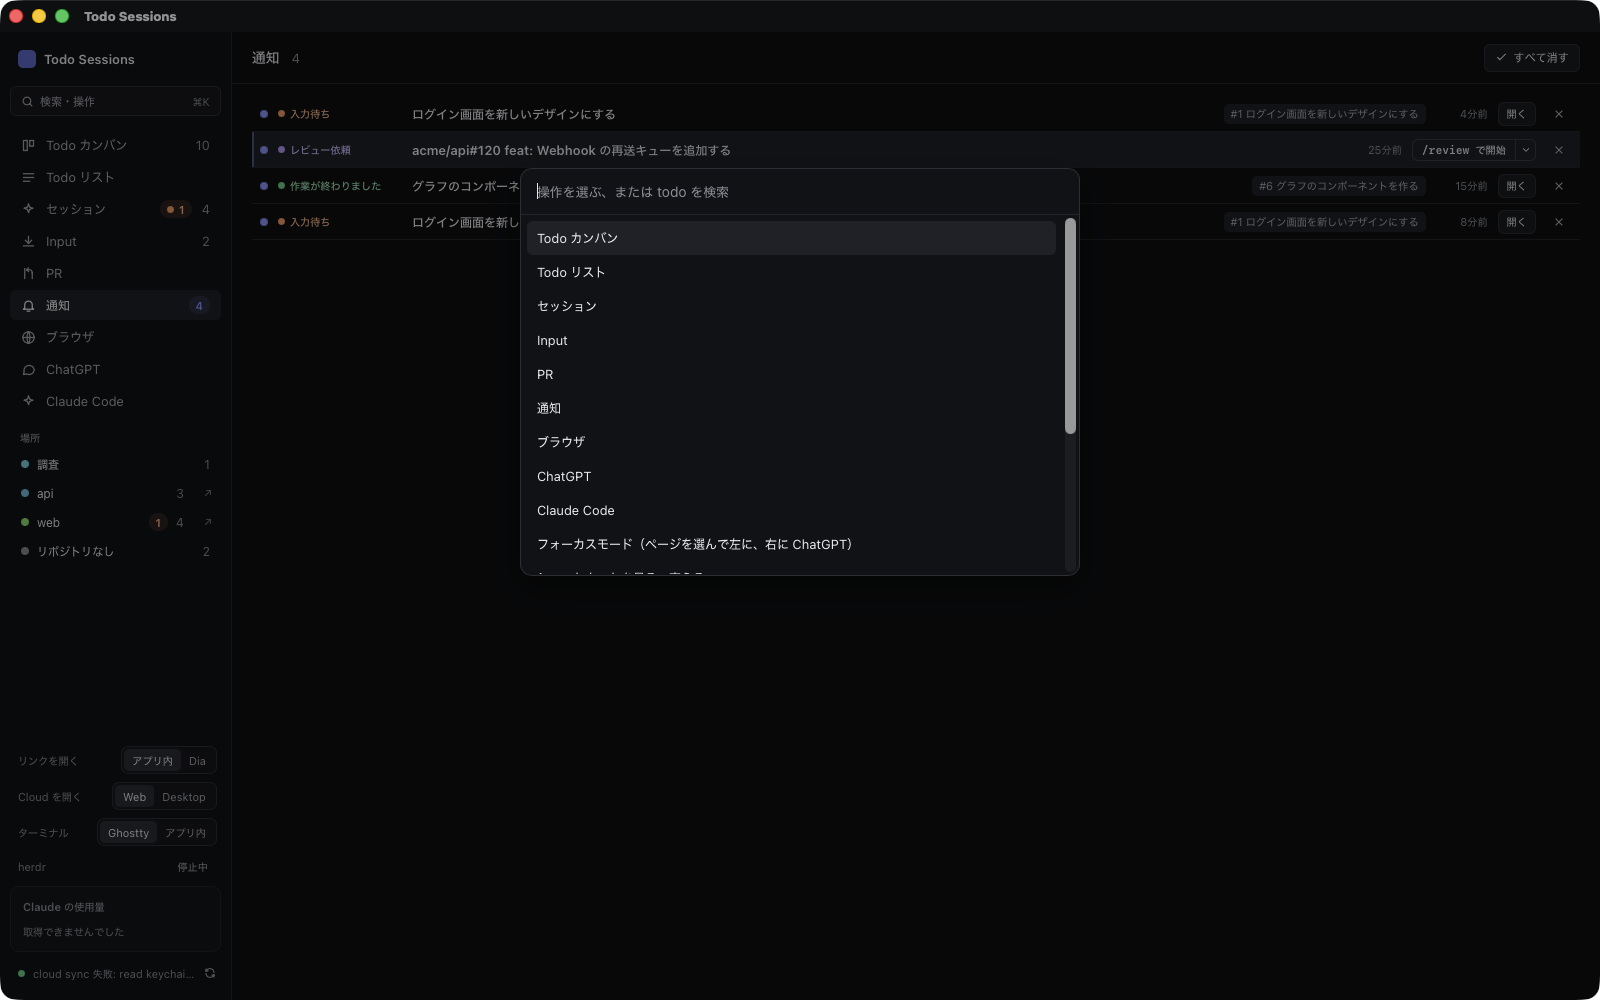
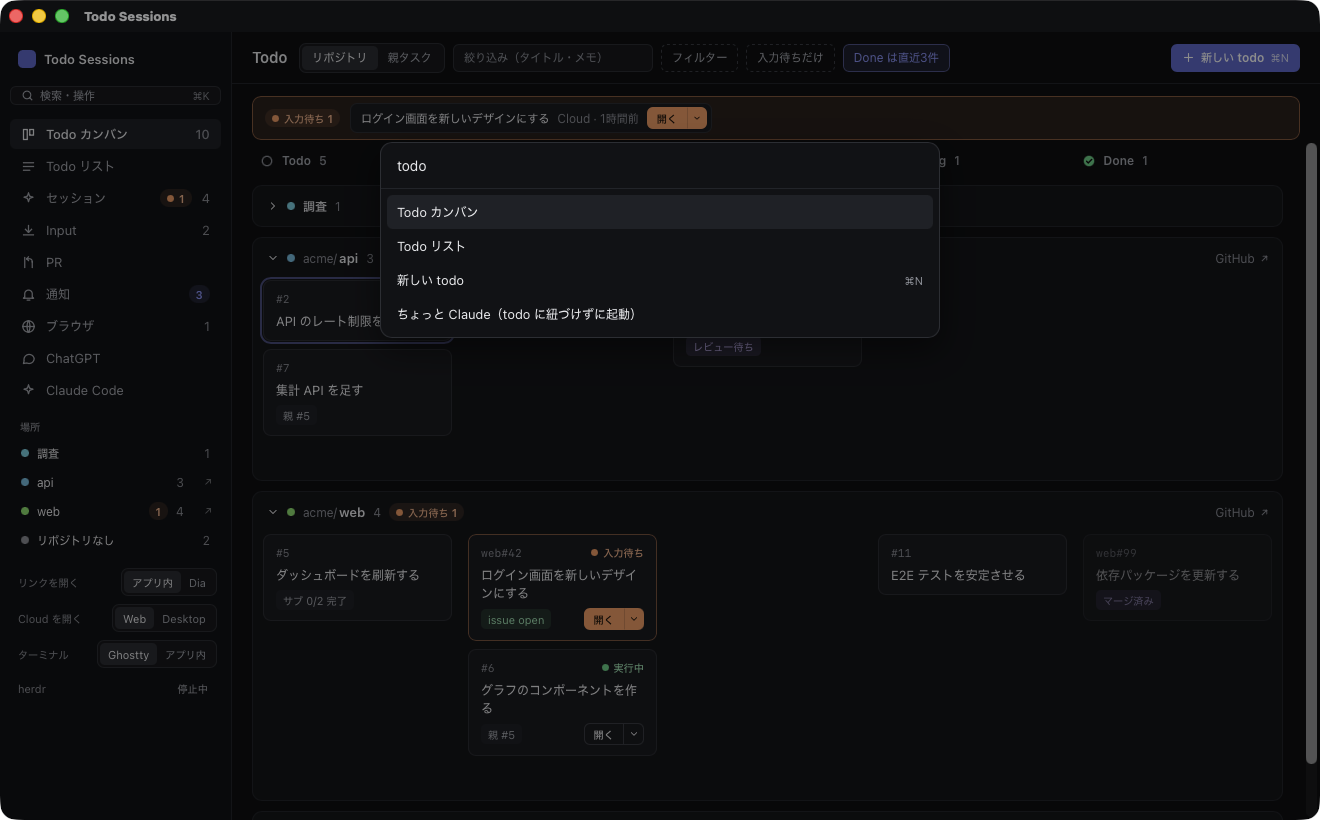
Rewrite the feature tour around how the app works
The page now opens with what the app is for and a four-step flow (with
a Mermaid diagram), explains the terms a newcomer meets, and walks the
screens with numbered callouts on the kanban, the todo panel and the
focus mode, then a key table. The screenshots are retaken from the demo
data with the sidebar's demo-only sync error hidden.

Claude-Session: https://claude.ai/code/session_01Ehh3ZJgcG5EjaXPjgQhzvj

diff --git a/docs/features.md b/docs/features.md
@@ -1,103 +1,163 @@
 # Todo Sessions の機能紹介
 
-todo や GitHub issue を Claude Code のセッション（CLI・Desktop の Code タブ・クラウド）に紐づけて、1つの画面で進み具合を追うための macOS アプリです。画像と動画はすべて架空のデモデータで撮っています。
+Todo Sessions は、todo と Claude Code のセッションをひとつの画面で管理する macOS アプリです。Claude Code を何本も並行して動かしていて、どれが入力待ちなのかをすぐ知りたい人に向けて作っています。
 
-## 紹介動画
+このページでは、どんなことができるかを画面の順に紹介します。細かい動作と設定は [README](../README.md) にまとめています。画像と動画はすべて架空のデモデータで撮っています。
 
 [![紹介動画](images/promo-poster.png)](promo.mp4)
 
-[promo.mp4](promo.mp4)（約1分・音声なし）
+紹介動画：[promo.mp4](promo.mp4)（約1分・音声なし）
 
-## Todo
+## できること
 
-### カンバン
+- todo ごとに、紐づいた Claude Code のセッションの状態（入力待ち・実行中・待機中）が見えます
+- todo から、そのままセッションを始められます。始めたセッションは todo に自動で紐づきます
+- GitHub の PR や issue が進むと、todo のステータスも自動で進みます
+- 入力待ちや作業の完了は通知で知らせます
+- 読みたい記事は「フォーカスモード」で、ChatGPT や Claude と並べて読めます
+- 操作はほとんどキーボードだけでできます
+
+## しくみ
+
+```mermaid
+flowchart LR
+  A["1. todo を作る<br>手で / GitHub issue から"] --> B["2. todo からセッションを始める<br>プロンプトに [todo:N] が付く"]
+  B --> C["3. アプリがセッションを追う<br>状態の表示・通知"]
+  C --> D["4. PR が進むと<br>ステータスも自動で進む"]
+```
+
+1. **todo を作ります。** ⌘N か「新しい todo」で作ります。⌘K の「issue を取り込む」を使うと、自分に割り当てられた GitHub issue が todo になります。
+2. **todo からセッションを始めます。** todo のパネルでプロンプトを書き、起動先（Cloud・Desktop・ターミナル）を選んで始めます。最初のプロンプトには `[todo:N]` が自動で付き、これを目印にセッションが todo に紐づきます。
+3. **アプリがセッションを追います。** Claude Code の hook と、クラウドのセッションの同期が、セッションの状態を記録します。入力待ちになると、カードに出て通知も届きます。
+4. **PR が進むと、ステータスも進みます。** PR にレビュー依頼が入ると Review、マージされると Done になります。
+
+## 用語
+
+| 用語 | 意味 |
+| --- | --- |
+| todo | やること1件。GitHub の issue / PR、作業フォルダ、メモ、リンクを持てます |
+| セッション | Claude Code の会話1本。CLI・Desktop の Code タブ・クラウドのどれでも扱えます |
+| 紐づけ | セッションと todo を結びつけること。最初のプロンプトの `[todo:N]` で自動で行います |
+| Cloud / Local | claude.ai のクラウドで動くセッション / 自分の Mac で動くセッション |
+| herdr | ターミナルで Claude Code を並べて動かすツール。Local のセッションの起動先のひとつです |
+| キュー | 起動待ちの todo の列。上から順に自動で起動します |
+| 入力待ち | セッションが止まって、あなたの返事を待っている状態 |
+| Input | 読みたい記事や本の章を集めた todo（タグ input） |
+| フォーカスモード | 左に読むページ、右に ChatGPT などを並べる、集中するための画面 |
+
+## 画面の見方
+
+### Todo（カンバン）
 
 ![カンバン](images/kanban.png)
 
-- Todo / Doing / Review / Pending / Done の5列です。カードを列のあいだで動かすと status が変わります
-- リポジトリごと、または親タスクごとのレーンに分かれます
-- 上の帯に入力待ちのセッションが並びます
-- `claude/todo-<id>-` ブランチの PR やセッションの作業ブランチの PR を拾い、レビュー依頼で Review、マージで Done のように status を自動で進めます
+1. 入力待ちのセッションが上に並びます。「開く」でそのセッションに移れます
+2. レーンです。リポジトリごとに分かれます（「親タスク」に切り替えると親の todo ごとになります）
+3. 紐づいたセッションの状態（入力待ち・実行中・待機中）です
+4. 紐づいた issue / PR の状態（レビュー待ち・マージ済みなど）です
+5. セッションを開きます。▾ から開き方を選べます
+6. サイドバーです。画面を切り替えたり、場所（リポジトリ）で絞り込んだりします
+7. 絞り込みとフィルターです。名前を付けて保存しておけます
 
-### リスト
+カードを列のあいだでドラッグすると、ステータスが変わります。同じ内容を1行ずつ並べた「Todo リスト」もあります。
 
-![リスト](images/list.png)
+![Todo リスト](images/list.png)
 
-- 同じ todo を1行ずつ並べます。セッションと PR の状態が並び、親と status は行の中で変えられます
-- 絞り込みとフィルターはカンバンとリストで別々に持ち、名前を付けて保存できます
+### todo のパネル（詳細とセッションの起動）
 
-### パネル
+カードを押すか Enter で開きます。
 
 ![todo のパネル](images/panel.png)
 
-- カードを押すか Enter で開きます。タイトル・ステータス・場所・親・issue / PR・フォルダ・メモ・リンクをその場で編集できます
-- 「新しいセッション」で最初のプロンプトを書き、スキル・起動先（Cloud・Local・herdr・キュー）・モデル・effort を選んで始めます。プロンプトに `[todo:<id>]` が入り、始まったセッションが自動で紐づきます
+1. ステータス・場所（リポジトリ）・親の todo
+2. issue / PR。`claude/todo-<id>-` のブランチで作られた PR は自動で紐づきます
+3. サブタスク。全部 Done になると、親の todo も Done になります
+4. 最初のプロンプト。`[todo:N]` は自動で付きます
+5. スキル。よく使うものが先に並びます
+6. 起動先。Cloud・Web / Cloud・Desktop / Local・Desktop / herdr（ターミナル）/ キュー から選びます
+7. モデルと effort を選んで開始します（⌘Enter でも始まります）
 
-### キーボード
-
-- j k / ↑↓ で移動、h l で左右の列（リストはレーンの折りたたみ）、Enter でパネル、s でステータス、⇧h ⇧l でカードを左右の列へ、o でセッション、p で PR、u で親、f でフォーカスモード、c で追加、/ で絞り込み、? で一覧です
-- ⌃h でサイドバーに移り、j / k と Enter で画面を切り替えます
-
-## セッション
+### セッション
 
 ![セッション](images/sessions.png)
 
-- todo に紐づいたものも紐づいていないものも、Cloud と Local のセッションを一覧にします
-- 行を押すか Enter でセッションを開きます（Cloud は claude.ai の Web か Desktop、Local は herdr・アプリ内のターミナル・Desktop）
-- 上の「起動待ち」がキューです。キューに入れた todo を順に起動します
-- 待機中の Cloud セッションをまとめてアーカイブできます
+todo に紐づいたものも、紐づいていないものも、すべてのセッションを並べます。行を押すとそのセッションを開きます。
 
-## Input
+- 紐づいていないセッションは、ここで todo を作るか、既存の todo に紐づけます
+- 上の「起動待ち」がキューです
+- 待機中の Cloud セッションは、まとめてアーカイブできます
 
-![Input](images/inputs.png)
-
-- 読みたい記事や本の章を todo（タグ input）として並べます
-- 上の欄に URL を入れるか、アプリ内ブラウザでリンクを ⌥ + クリックすると追加されます。URL をいくつか入れると 1 件にまとまります
-- 開くとフォーカスモードになり、その URL（いくつかあれば全部）が左に出ます
-
-## 通知
+### 通知
 
 ![通知](images/notices.png)
 
-- 入力待ち・作業が終わったとき・レビューを頼まれたときの通知のうち、まだ見ていないものが並びます
-- レビュー依頼は「/review で開始」で、todo を作らずにレビューのセッションを始めます
-- j / k で選んで x で消せます
+入力待ち・作業の完了・レビュー依頼のうち、まだ見ていないものが並びます。レビュー依頼は「/review で開始」を押すと、そのままレビューのセッションを始められます。j / k で選んで x で消せます。
 
-## ⌘K とショートカット
+### Input とフォーカスモード
 
-![⌘K](images/palette.png)
+![Input](images/inputs.png)
 
-- ⌘K で画面の移動、issue の取り込み、同期などの操作と todo を検索します。「session」「focus」のような英語でも見つかります
-
-![ショートカット](images/shortcuts.png)
-
-- ショートカットは一覧から自分のキーに変えられます。アプリ内ブラウザのページの中でも同じキーが効きます
-
-## アプリ内ブラウザ
-
-![アプリ内ブラウザ](images/browser.png)
-
-- 右側のペインにタブで開きます。issue / PR のチップ、PR の行、Cloud セッションの「開く」はここで開きます
-- ChatGPT と Claude Code はタブ列の左端に常駐し、閉じないので状態が保たれます
-- ⌃h / ⌃l で入力先を Todo 側とペインで切り替えます。入力先の側は色の線で分かります
-- 設定で、Local のセッションをペインのターミナルタブ（見た目とキーは Ghostty の設定に合わせます）で動かせます
-
-## フォーカスモード
+Input は、読みたい記事や本の章の一覧です。上の欄に URL を入れるか、アプリ内ブラウザでリンクを ⌥ + クリックすると追加されます。URL をいくつか入れると1件にまとまります。開くとフォーカスモードになり、その URL（いくつかあれば全部）が左に出ます。
 
 ![フォーカスモード](images/focus.png)
 
-- サイドバーと Todo 側を隠し、左に読むページ、右に ChatGPT（Claude Code・Notion に切り替え可）を並べます
-- 左で文字を選んで ⌃l を押すと、その文字が右の入力欄に入ります
-- フォーカスモード中はアプリのショートカットと macOS の通知を止めます。終えたときに、そのあいだの通知の件数を知らせます
+1. 左は読むページです。タブで何枚も開けます
+2. 右は ChatGPT・Claude Code・Notion を切り替えて使います
+3. 左で文章を選びます
+4. ⌃L を押すと、選んだ文章が右の入力欄に入ります
+5. 終えるときは Esc を2回押します
+
+フォーカスモードのあいだは、アプリのショートカットと macOS の通知が止まります。左で開けるのは、選んだページのサイトと学習ページだけです。ほかのリンク（と ＋ で足す URL）は、今の作業に関係するかを TypeSafe の Jev が判定し、関係がありそうなら左に開き、薄ければその見込みを出して「開きますか？」と聞きます。判定のために、todo のタイトルとメモ、ページのタイトルと URL を TypeSafe に送ります。API キーは ⌘K の「Jev の API キーを設定」で入れます。
+
+⌘K の「フォーカスモード」から入るときは、最初に左に開くページを選びます。よく読むサイトは「学習ページ」として登録しておけます。
 
 ![開くページを選ぶ](images/picker.png)
 
-- 入るときに左に開くページを選びます（URL・学習ページ・ペインのターミナル）。todo の f からは、その todo のリンク・PR・issue を全部左に開きます
+### アプリ内ブラウザ
 
-![ほかのページを開くときの確認](images/focus-link.png)
+![アプリ内ブラウザ](images/browser.png)
 
-- 左で開けるのは、選んだページのサイトと学習ページだけです。ほかのリンク（と ＋ で足す URL）は、今の作業に関係するかを TypeSafe の Jev が判定し、関係があれば左に開き、薄ければその見込みを出して「開きますか？」と聞きます（API キーは ⌘K の「Jev の API キーを設定」で入れます）
+右側のペインにタブでページを開きます。issue / PR や Cloud セッションのページはここで開きます。ChatGPT と Claude Code は左端に常駐していて、閉じないので状態が保たれます。⌃H と ⌃L で、入力先を Todo 側とペインで切り替えます。
 
-![終えるときの確認](images/exit-dialog.png)
+### ⌘K とショートカット
 
-- Esc で「終えますか？」が出て、もう一度 Esc で終わります（Enter で続ける）
+![⌘K](images/palette.png)
+
+⌘K で、画面の移動や操作を探して実行できます。todo も検索できます。「session」「focus」のように英語で探しても見つかります。
+
+![ショートカット](images/shortcuts.png)
+
+ショートカットは一覧から自分のキーに変えられます。
+
+## よく使うキー
+
+| キー | すること |
+| --- | --- |
+| ⌘K | コマンド（画面の移動・操作・todo の検索） |
+| ⌘N | 新しい todo |
+| j / k | 下へ / 上へ |
+| h / l | 左の列 / 右の列（リストではレーンを畳む / 開く） |
+| Enter | パネルを開く（Input の todo はフォーカスモード） |
+| s | ステータスを変える |
+| ⇧H / ⇧L | カンバンで、カードを左 / 右の列へ動かす |
+| o | セッションを開く |
+| p | PR / issue を開く |
+| f | todo のページをフォーカスモードで開く |
+| c | その場所に todo を追加 |
+| / | 絞り込み欄へ |
+| ? | キーの一覧 |
+| ⌃H / ⌃L | 入力先を左（Todo 側）/ 右（ペイン）に移す |
+| ⌘T / ⌘W | ブラウザのタブを開く / 閉じる |
+
+## 自動で行うこと
+
+- クラウドのセッションを30秒ごと、GitHub を1分ごとに同期します
+- PR にレビュー依頼が入るか Approve されると Review、修正を頼まれると Doing、マージされると Done にします（紐づいた issue も close します）
+- issue が close されたら Done にします
+- サブタスクが全部 Done になったら、親の todo も Done にします
+- Done になった todo の Cloud セッションを、ターンが終わっていればアーカイブします
+- 入力待ち・作業の完了・レビュー依頼を macOS の通知で知らせます
+
+## はじめかた
+
+macOS と Claude Code が必要です。GitHub との連携には、ログイン済みの [gh](https://cli.github.com/) を使います。インストールとアプリのビルドの手順は、README の「[インストール](../README.md#インストール)」と「[アプリ](../README.md#アプリ)」を見てください。
